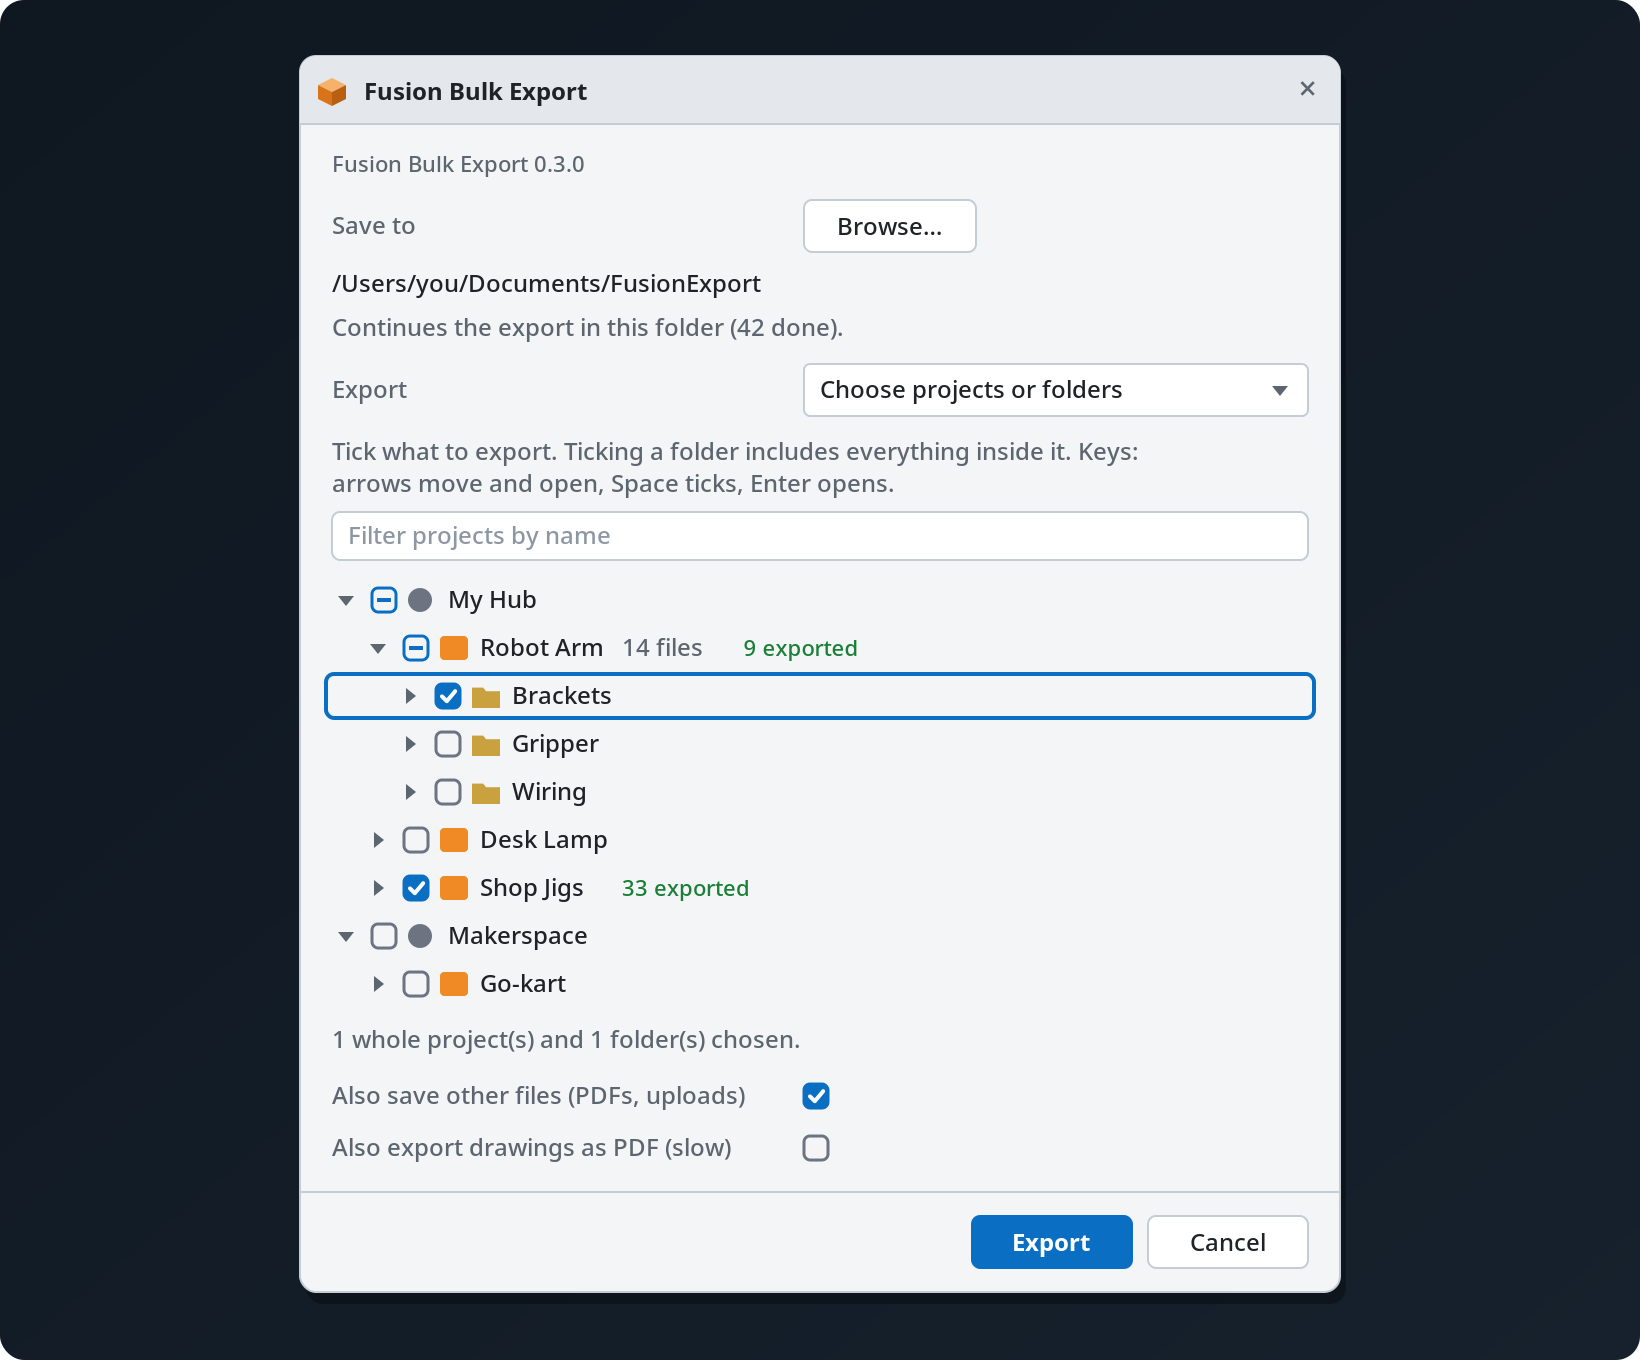
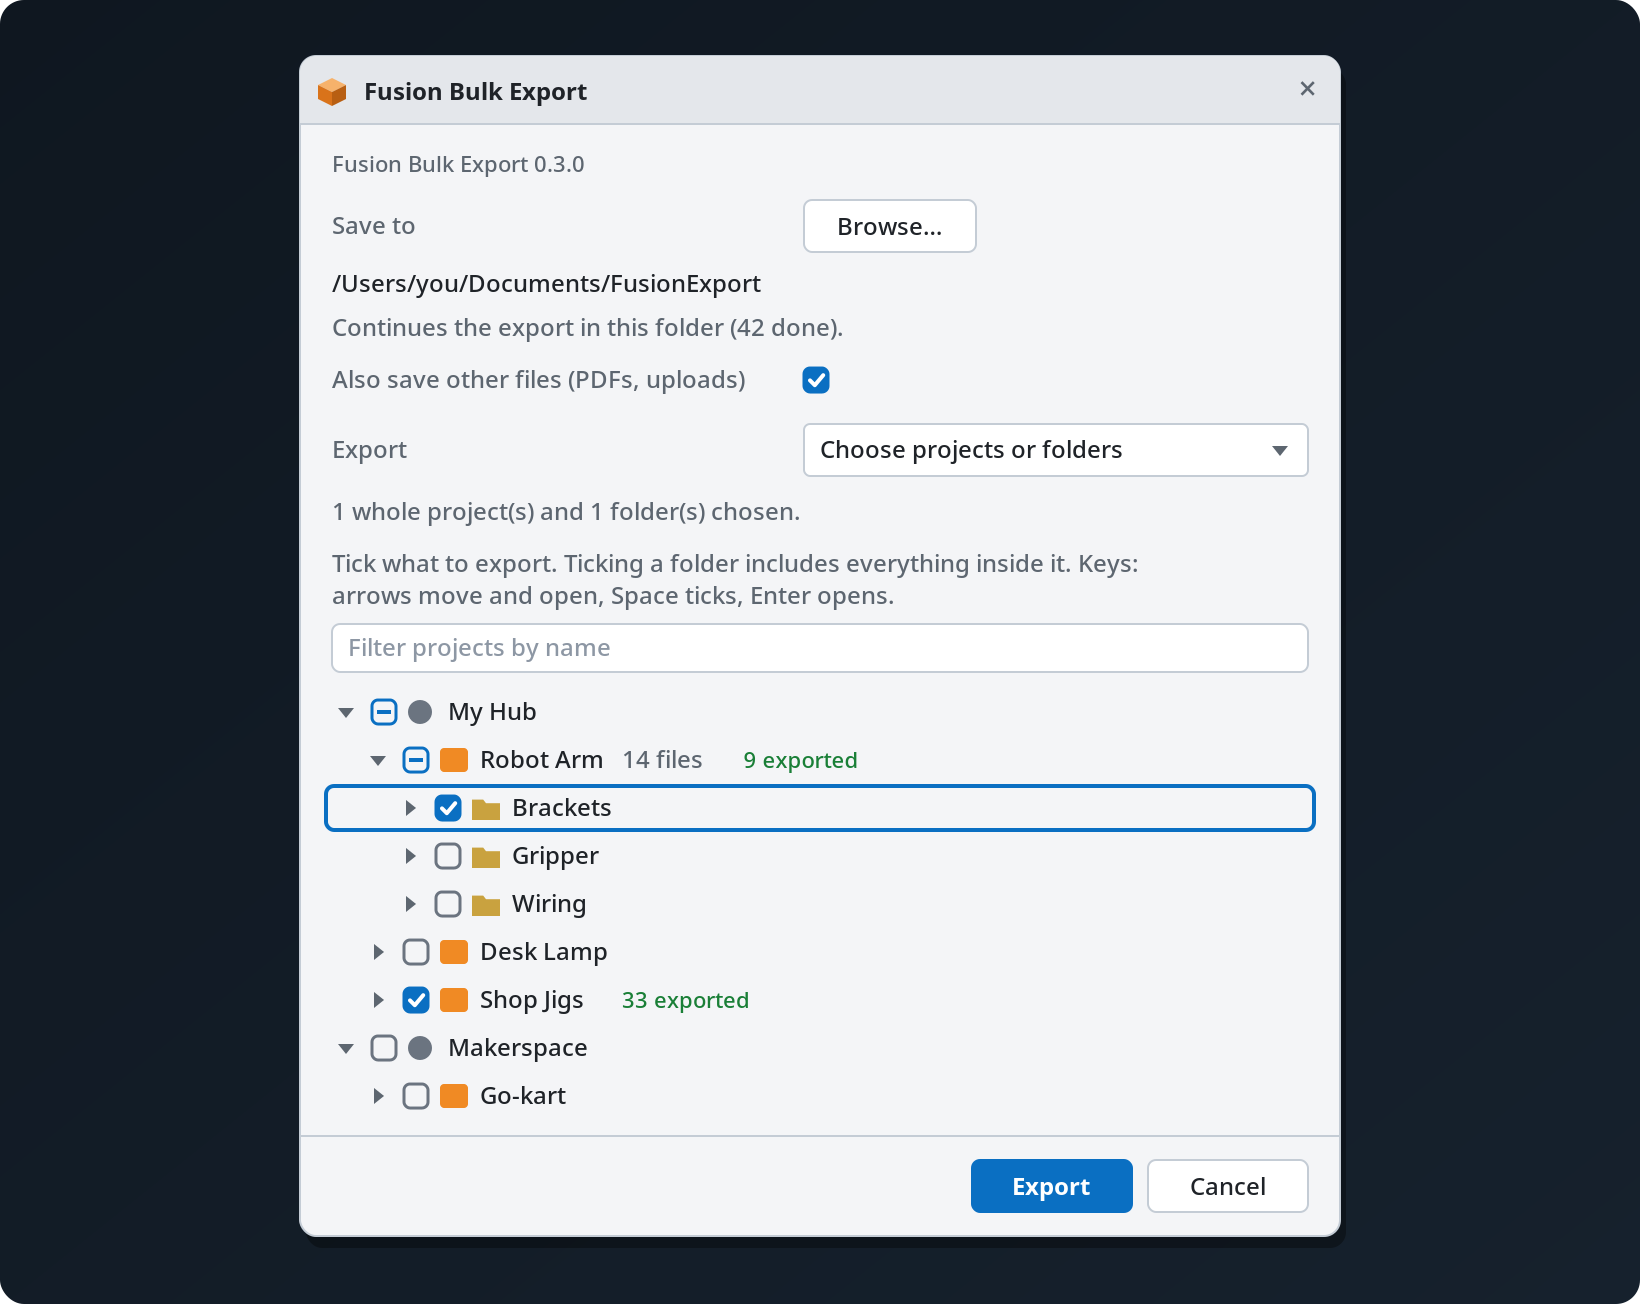
Dialog: tree last so every control is in view; scrollbars follow the theme
In "Choose projects or folders" mode the checkbox fell below the dialog's
first size, and the tree's scrollbar track was bright white on the dark
theme. The dialog now reads top to bottom: version, Save to, folder and its
note, "Also save other files", the Export choice, what is chosen, and the
tree last, so only tree rows (which scroll inside the tree) can be below the
fold. The tree's minimum is 260 and the dialog opens 600 high, which fits a
screen 1080 points high with everything in view.

The tree page names its colour scheme for both themes (color-scheme dark,
light under prefers-color-scheme: light) and styles its scrollbars in its
own colours (scrollbar-color plus ::-webkit-scrollbar rules: transparent
track, thumb in the line colour). The dialog illustration follows the new
order; the illustrations are regenerated (the results picture now shows the
"not supported" note).

diff --git a/FusionBulkExport/ui/tree.html b/FusionBulkExport/ui/tree.html
@@ -5,10 +5,10 @@
 <title>Choose what to export</title>
 <style>
   :root { --text: #e3e6ea; --muted: #9aa4b1; --hover: rgba(255, 255, 255, 0.07); --box: #8d97a4; --tick: #2f9bd8;
-    --bad: #ff8178; --line: #4a515b; --good: #56d364; }
+    --bad: #ff8178; --line: #4a515b; --good: #56d364; color-scheme: dark; }
   @media (prefers-color-scheme: light) {
     :root { --text: #1f2328; --muted: #5d6670; --hover: rgba(0, 0, 0, 0.06); --box: #6b7480; --tick: #0a6fc2;
-      --bad: #b42318; --line: #c4ccd5; --good: #1a7f37; }
+      --bad: #b42318; --line: #c4ccd5; --good: #1a7f37; color-scheme: light; }
   }
   /* The page must read well from about 220 px to 900 px wide: never a horizontal scrollbar; long
      names end in an ellipsis (the full name is the row's tooltip); counts and badges stay whole. */
@@ -17,7 +17,15 @@
   /* Height by construction (the dialog sets the same minimum on the input, picker.py
      TREE_MIN_HEIGHT): never decided by how much the page holds, so an empty or loading tree is as
      tall as a full one. */
-  html, body { min-height: 300px; }
+  html, body { min-height: 260px; }
+  /* Scrollbars in the page's own colours, not a bright white track on the dark theme. */
+  html { scrollbar-color: var(--line) transparent; }
+  ::-webkit-scrollbar { width: 10px; height: 10px; background: transparent; }
+  ::-webkit-scrollbar-track { background: transparent; }
+  ::-webkit-scrollbar-thumb { background: var(--line); border-radius: 5px; border: 2px solid transparent;
+    background-clip: padding-box; }
+  ::-webkit-scrollbar-thumb:hover { background: var(--box); background-clip: padding-box; }
+  ::-webkit-scrollbar-corner { background: transparent; }
   * { box-sizing: border-box; }
   ul { list-style: none; margin: 0; padding: 0; }
   .row { display: flex; align-items: center; gap: 6px; height: 24px; border-radius: 4px; cursor: default;

diff --git a/FusionBulkExport/fusion_bulk_export/picker.py b/FusionBulkExport/fusion_bulk_export/picker.py
@@ -21,13 +21,14 @@ BROWSE = 'Browse…'
 OLD_FUSION = ('Choosing projects or folders needs a newer Fusion (update Fusion to get it). '
               'This one can export everything.')
 # Dialog size in Fusion's units: wide enough for project names in the tree beside its boxes.
-DIALOG_SIZE = (520, 640)
+# 600 high: on a screen 1080 points high every control is in view at first (the tree is last).
+DIALOG_SIZE = (520, 600)
 DIALOG_MINIMUM = (380, 460)
 # The tree's height in Fusion's units, set explicitly on the HTML input when it is made and again
 # each time it is shown (on macOS, test builds showed the tree collapsed to a ~40-unit strip when
 # nothing but the page's own content decided its height). The page (ui/tree.html) holds the same
 # minimum in its CSS, so its content height never falls below it either.
-TREE_MIN_HEIGHT = 300
+TREE_MIN_HEIGHT = 260
 TREE_MAX_HEIGHT = 0  # 0: no maximum, the tree grows with the dialog
 PATH_LIMIT = 64  # longer output folders are shown with their middle cut out (full path as tooltip)
 TREE_HTML = Path(__file__).resolve().parent.parent / 'ui' / 'tree.html'
@@ -104,10 +105,11 @@ class Picker:
         self.chosen = {}
         remembered = settings.load()
         number = version()
-        # Top to bottom: version; Save to [Browse…] with the folder and its note; the Export
-        # choice with the tree (the main choice, kept near the top); the checkboxes. Rows without
-        # a label span the whole dialog (isFullWidth as well, since the HTML tree otherwise sits
-        # in the right-hand column).
+        # Top to bottom: version; Save to [Browse…] with the folder and its note; the checkbox;
+        # the Export choice; what is chosen; the tree, last, so that only tree rows can fall below
+        # the dialog's first size and every control is in view (the tree scrolls inside itself).
+        # Rows without a label span the whole dialog (isFullWidth as well, since the HTML tree
+        # otherwise sits in the right-hand column).
         title = 'Fusion Bulk Export' + (' ' + number if number else '')
         self.version = inputs.addTextBoxCommandInput('fbx_version', '', title, 1, True)
         full_width(self.version, trace)
@@ -132,6 +134,10 @@ class Picker:
         self.facts = None
         self.browsing = False
         self.refresh_folder()
+        # On unless the user switched it off last time.
+        self.files = inputs.addBoolValueInput('fbx_files', OTHER_FILES, True, '',
+                                              remembered.get('other_files') is not False)
+        describe(self.files, OTHER_FILES_WHY, trace)
         self.mode = inputs.addDropDownCommandInput(
             'fbx_mode', 'Export', adsk.core.DropDownStyles.TextListDropDownStyle)
         self.mode.listItems.add(EVERYTHING, True, '')
@@ -141,6 +147,10 @@ class Picker:
         full_width(self.tip, trace)
         self.tree = self.summary = None
         add_browser = getattr(inputs, 'addBrowserCommandInput', None)
+        if add_browser is not None:
+            self.summary = inputs.addTextBoxCommandInput('fbx_summary', '', 'Nothing chosen yet.', 1, True)
+            full_width(self.summary, trace)
+            self.summary.isVisible = False
         try:
             self.tree = (add_browser('fbx_tree', '', TREE_HTML.as_uri(), TREE_MIN_HEIGHT, TREE_MAX_HEIGHT)
                          if add_browser else None)
@@ -151,18 +161,12 @@ class Picker:
             old = inputs.addTextBoxCommandInput('fbx_old', '', OLD_FUSION, 2, True)
             full_width(old, trace)
             self.tip.isVisible = False  # it speaks of choosing, which this Fusion cannot offer
+            self.summary = None
         else:
             full_width(self.tree, trace)
             size_tree(self.tree, trace)
             self.mode.listItems.add(CHOOSE, False, '')
             self.tree.isVisible = False
-            self.summary = inputs.addTextBoxCommandInput('fbx_summary', '', 'Nothing chosen yet.', 1, True)
-            full_width(self.summary, trace)
-            self.summary.isVisible = False
-        # On unless the user switched it off last time.
-        self.files = inputs.addBoolValueInput('fbx_files', OTHER_FILES, True, '',
-                                              remembered.get('other_files') is not False)
-        describe(self.files, OTHER_FILES_WHY, trace)
         if self.tree is not None and remembered.get('mode') == CHOOSE:
             for item in self.mode.listItems:
                 item.isSelected = item.name == CHOOSE

diff --git a/tests/test_ui.py b/tests/test_ui.py
@@ -678,7 +678,7 @@ class FriendlyErrorTests(UIBase):
         tree = inputs.find('fbx_tree')
         self.assertEqual(tree.name, '')
         self.assertTrue(tree.isFullWidth)
-        self.assertGreaterEqual(tree.minimumHeight, 300)
+        self.assertGreaterEqual(tree.minimumHeight, 240)
         self.assertEqual(tree.maximumHeight, 0)  # grows with the dialog
         captions = {control.text for control in inputs.added if getattr(control, 'isCheckBox', True) is False}
         self.assertEqual(captions, {'Browse…'})
@@ -691,14 +691,13 @@ class FriendlyErrorTests(UIBase):
         self.assertEqual(inputs.find('fbx_browse').name, 'Save to')
         width, height = command.sizes['initial']
         self.assertGreaterEqual(width, 500)
-        self.assertGreaterEqual(height, 600)
+        self.assertGreaterEqual(height, 560)
         self.assertLessEqual(command.sizes['minimum'][0], width)
         self.assertGreaterEqual(command.sizes['minimum'][0], 360)
-        # The main choice comes before the checkboxes, so it is not pushed below the fold.
+        # The tree comes last: nothing but tree rows can be pushed below the fold.
         order = [control.id for control in inputs.added]
-        self.assertEqual(order[:6], ['fbx_version', 'fbx_browse', 'fbx_folder', 'fbx_note', 'fbx_mode', 'fbx_tip'])
-        self.assertLess(order.index('fbx_tree'), order.index('fbx_files'))
-        self.assertLess(order.index('fbx_summary'), order.index('fbx_files'))
+        self.assertEqual(order, ['fbx_version', 'fbx_browse', 'fbx_folder', 'fbx_note', 'fbx_files', 'fbx_mode',
+                                 'fbx_tip', 'fbx_summary', 'fbx_tree'])
 
     def test_long_output_folder_is_shown_with_its_middle_cut(self):
         from fusion_bulk_export.picker import shown_path
@@ -875,3 +874,19 @@ class TreeLayoutContractTests(UIBase):
         self.assertNotIn('fbx_tree', source)
         self.assertNotIn('tree.html', source)
         self.assertNotIn('fbx_results', ids)
+
+    def test_every_control_is_in_view_at_first_on_a_1080_point_screen(self):
+        # In Choose mode the checkbox once sat below the tree, out of view: now the tree is last,
+        # so only tree rows (which scroll inside the tree) can be below the dialog's first size.
+        from fusion_bulk_export import picker
+        command = self.open_dialog()
+        self.choose(command)
+        shown = [control.id for control in command.commandInputs.added if control.isVisible]
+        self.assertEqual(shown, ['fbx_version', 'fbx_browse', 'fbx_folder', 'fbx_note', 'fbx_files', 'fbx_mode',
+                                 'fbx_summary', 'fbx_tree'])
+        width, height = picker.DIALOG_SIZE
+        self.assertLessEqual(height, 1080 - 200)  # menu bar, dock or taskbar, title bar, margins
+        # Rows above the tree at about 30 units each, the OK/Cancel row about 60: the tree's
+        # minimum still fits in the first size.
+        self.assertLessEqual((len(shown) - 1) * 30 + picker.TREE_MIN_HEIGHT + 60, height)
+        self.assertLessEqual(picker.DIALOG_MINIMUM[1], height)

diff --git a/docs/screens.py b/docs/screens.py
@@ -201,12 +201,21 @@ def dialog_svg():
     row += 22
     parts.append(text(x + 16, row + 12, folder_note(), 12, MUTED))
     row += 26
+    for label, ticked in ((OTHER_FILES, 1),):
+        parts.append(text(x + 16, row + 12, label, 12, MUTED))
+        parts.append(checkbox(cx, row + 2, ticked))
+        row += 26
+    row += 4
     parts.append(text(x + 16, row + 17, EXPORT_LABEL, 12, MUTED))
     parts.append(f'<rect x="{cx}" y="{row}" width="{cw}" height="26" rx="3" fill="{FIELD}" stroke="{LINE}"/>')
     parts.append(text(cx + 8, row + 17, CHOOSE, 12))
     parts.append(caret(cx + cw - 14, row + 13, True))
     row += 36
-    # The tree page (an HTML input across the whole dialog).
+    whole = sum(1 for value in CHOSEN.values() if value is None)
+    folders = sum(len(value) for value in CHOSEN.values() if value is not None)
+    parts.append(text(x + 16, row + 12, '%d whole project(s) and %d folder(s) chosen.' % (whole, folders), 12, MUTED))
+    row += 26
+    # The tree page (an HTML input across the whole dialog), last.
     tx, tw = x + 12, w - 24
     hint = wrap(TREE_HINT, tw - 8, 12)
     for index, line in enumerate(hint):
@@ -218,15 +227,6 @@ def dialog_svg():
     rows, rows_h = tree_rows(tx, row, tw)
     parts.append(rows)
     row += rows_h + 8
-    whole = sum(1 for value in CHOSEN.values() if value is None)
-    folders = sum(len(value) for value in CHOSEN.values() if value is not None)
-    parts.append(text(x + 16, row + 12, '%d whole project(s) and %d folder(s) chosen.' % (whole, folders), 12, MUTED))
-    row += 28
-    for label, ticked in ((OTHER_FILES, 1),):
-        parts.append(text(x + 16, row + 12, label, 12, MUTED))
-        parts.append(checkbox(cx, row + 2, ticked))
-        row += 26
-    row += 4
     parts.append(f'<path d="M{x},{row} h{w}" stroke="{LINE}"/>')
     parts.append(button(x + w - 16 - 80 - 8 - 80, row + 12, 80, OK_BUTTON, primary=True))
     parts.append(button(x + w - 16 - 80, row + 12, 80, 'Cancel'))

diff --git a/tests/test_tree_js.py b/tests/test_tree_js.py
@@ -52,6 +52,17 @@ class TreePageLayoutTests(unittest.TestCase):
         self.assertIn((media, selector), self.css)
         return self.css[(media, selector)]
 
+    def test_scrollbars_follow_the_theme(self):
+        # Fusion's dark theme showed a bright white scrollbar track: the page names its colour
+        # scheme for both themes and styles its scrollbars with its own colours.
+        self.assertEqual(self.rule(':root')['color-scheme'], 'dark')
+        self.assertEqual(self.rule(':root', '(prefers-color-scheme: light)')['color-scheme'], 'light')
+        self.assertEqual(self.rule('html')['scrollbar-color'], 'var(--line) transparent')
+        self.assertEqual(self.rule('::-webkit-scrollbar-track')['background'], 'transparent')
+        self.assertEqual(self.rule('::-webkit-scrollbar')['background'], 'transparent')
+        self.assertIn('var(--line)', self.rule('::-webkit-scrollbar-thumb')['background'])
+        self.assertNotIn('#fff', self.rule('::-webkit-scrollbar-thumb')['background'])
+
     def test_height_does_not_depend_on_the_content(self):
         # The same minimum as the dialog sets on the input (picker.TREE_MIN_HEIGHT), as an absolute
         # length on both html and body: an empty or loading page is as tall as a full one.
